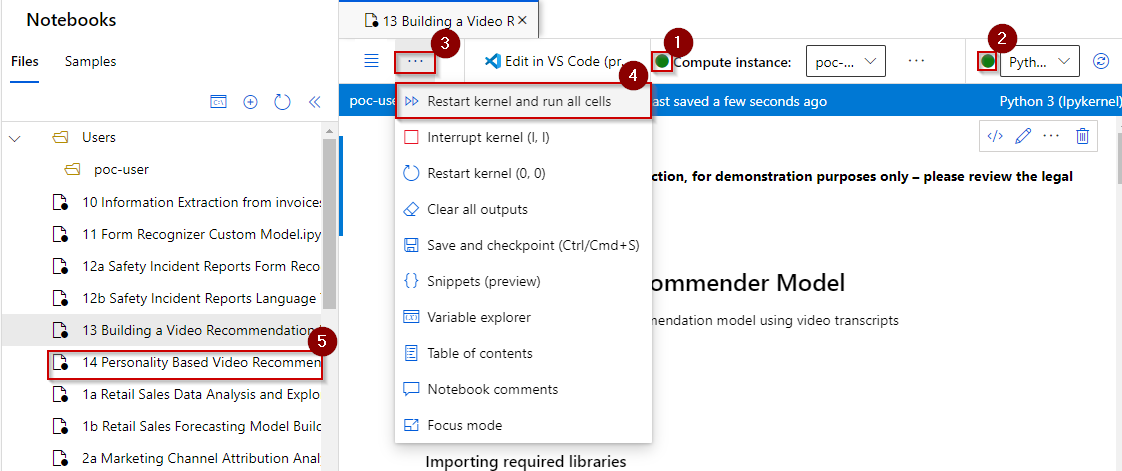
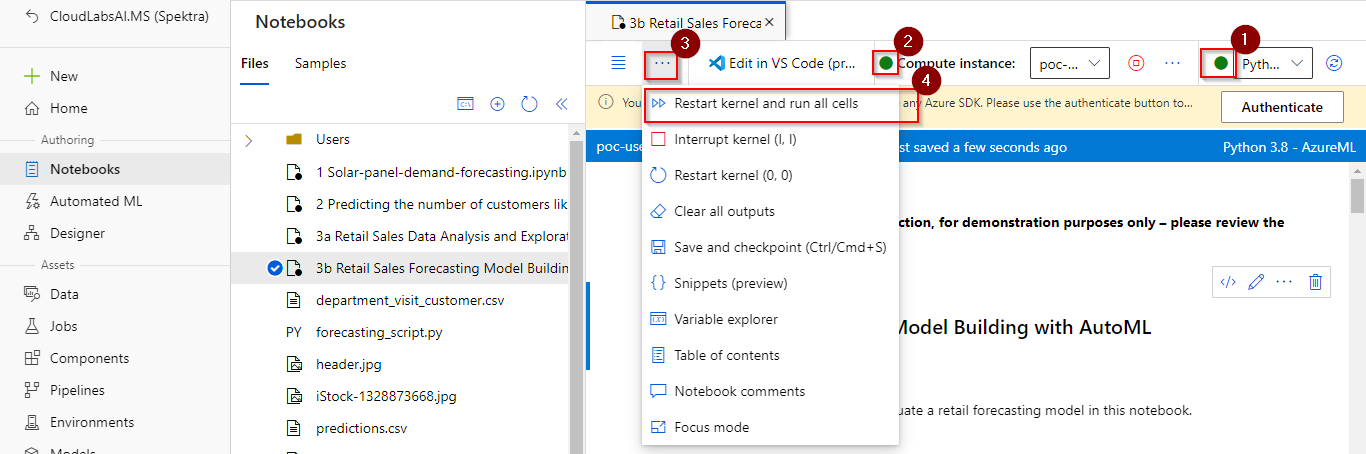
more updates

diff --git a/Readme-shell.md b/Readme-shell.md
@@ -378,7 +378,7 @@ cd ./midp/midp
 	
 	![Enter Resource Group name.](media/cloud-shell-23.png)
 	
-22. **Goto** notebooks section, **select** "13 Building a Video Recommendation Model.ipynb" and **click** on the "+" sign as shown in the image to create a compute.
+22. **Goto** notebooks section, **select** "3b Retail Sales Forecasting Model Building with AutoML.ipynb" and **click** on the "+" sign as shown in the image to create a compute.
 
 	![Enter Resource Group name.](media/cloud-shell-24.png)
 	
@@ -386,7 +386,7 @@ cd ./midp/midp
 
 	![Enter Resource Group name.](media/cloud-shell-25.png)
 	
-24. Verify the compute and kernel show green and are ready, if not wait for them to turn green, then **click** on the "..." button at top left in the workspace as shown in the image and **click** on Restart kernel and run all cells option. Let the notebook run successfully and then **open** the "14 Personality Based Video Recommender.ipynb" notebook and **run** it as well.
+24. Verify the compute and kernel show green and are ready, if not wait for them to turn green, then **click** on the "..." button at top left in the workspace as shown in the image and **click** on Restart kernel and run all cells option. Let the notebook run successfully.
 
 	![Enter Resource Group name.](media/cloud-shell-26.png)
       
